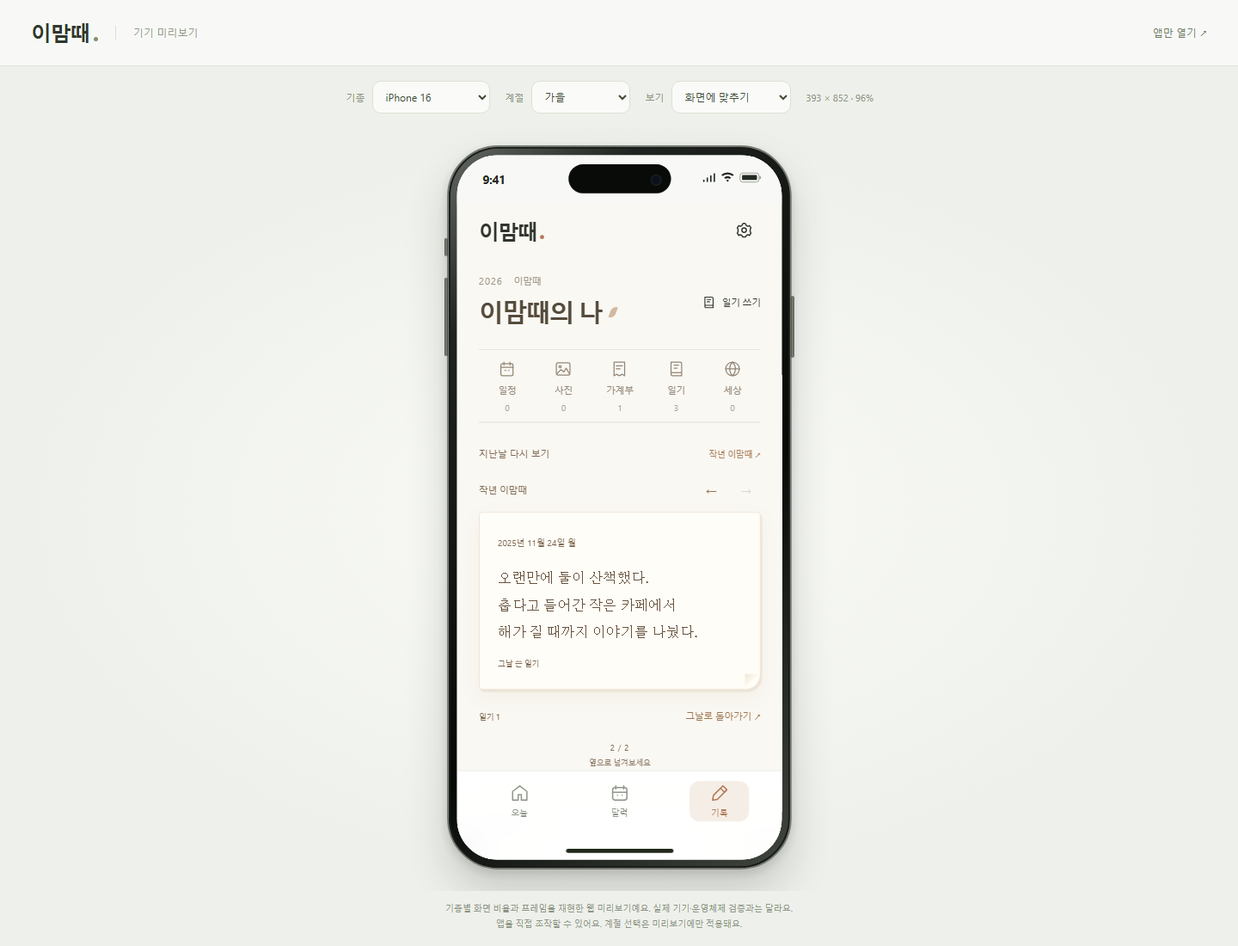
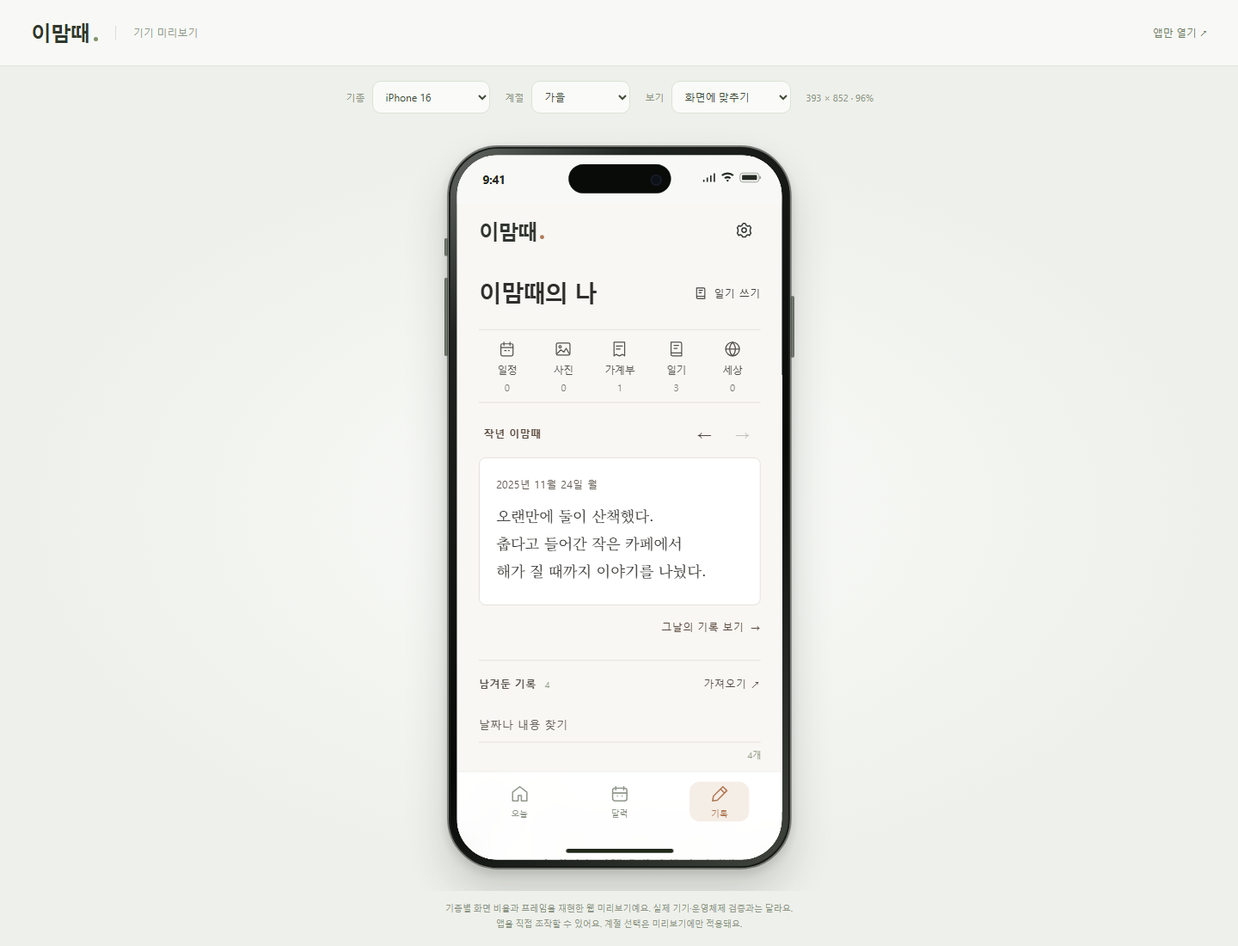
Refine typography and simplify record details

diff --git a/styles.css b/styles.css
@@ -637,10 +637,7 @@ html[data-device-preview] .toast {bottom:calc(100px + var(--device-safe-bottom))
 .entry-menu button:hover {background:var(--tint);}
 .diary-label {display:none;}
 .archive-heading {display:flex;align-items:center;justify-content:space-between;gap:18px;margin:1px 0 25px;}
-.archive-edition {font-size:11px;font-variant-numeric:tabular-nums;letter-spacing:1.3px;color:#8c9384;margin:0 0 9px;}
-.archive-edition span {letter-spacing:0;margin-left:9px;}
 .archive-heading h1 {font-size:34px;letter-spacing:-1.5px;font-weight:650;margin:0;display:flex;align-items:center;gap:10px;}
-.archive-mark {width:7px;height:15px;background:var(--accent);border-radius:7px 0 7px 0;opacity:.65;transform:rotate(20deg);}
 .archive-write {display:flex;align-items:center;gap:7px;font-size:11px;padding:10px 0 10px 10px;min-height:44px;white-space:nowrap;}
 .archive-write svg {width:17px;height:17px;}
 .archive-sections {display:grid;grid-template-columns:repeat(var(--section-count),minmax(0,1fr));border-top:1px solid #e2e6dc;border-bottom:1px solid #e2e6dc;margin-bottom:16px;}
@@ -671,7 +668,7 @@ html[data-device-preview] .toast {bottom:calc(100px + var(--device-safe-bottom))
 .archive-content .record-head {min-height:26px;gap:5px;margin-bottom:7px;}
 .archive-content .record-head time {display:none;}
 .archive-content .diary-label {display:inline;font-size:10px;color:#939c85;}
-.archive-content .diary-entry > p:not(.source-caption) {font-family:Georgia,'Batang',serif;font-size:15px;line-height:2;letter-spacing:-.15px;margin:0;white-space:pre-wrap;}
+.archive-content .diary-entry > p:not(.source-caption) {font-family:var(--record-serif);font-size:15px;line-height:2;letter-spacing:-.15px;margin:0;white-space:pre-wrap;}
 .archive-content .source-caption {font-size:9px;line-height:1.8;color:#9ca48f;margin:9px 0 0;}
 .archive-content .source-badge {background:none;border-radius:0;padding:0;font-size:10px;color:#939c85;}
 .archive-content .memory-card h3 {font-size:14px;line-height:1.8;margin:0 0 7px;font-weight:500;}
@@ -698,7 +695,7 @@ html[data-device-preview] .toast {bottom:calc(100px + var(--device-safe-bottom))
 .archive-content .expense-amount {font-size:14px;font-variant-numeric:tabular-nums;letter-spacing:-.4px;margin:0;align-self:center;overflow-wrap:anywhere;}
 .archive-content .memory-expenses .source-caption,.archive-content .memory-expenses .memory-text {grid-column:1/-1;}
 .archive-content .memory-world {border-left:2px solid var(--tint);padding-left:12px;}
-.archive-content .memory-world h3 {font-family:Georgia,'Batang',serif;font-size:14px;}
+.archive-content .memory-world h3 {font-family:var(--record-serif);font-size:14px;}
 .archive-page .expense-summary {border:0;border-bottom:1px solid #dfe5d5;border-radius:0;padding:15px 0 22px;background:transparent;box-shadow:none;margin:0 0 20px;}
 .archive-page .expense-comparison {border-radius:0;background:transparent;border-top:1px solid #e3e8db;padding:14px 0 0;}
 .archive-page .world-note {display:flex;align-items:center;flex-wrap:wrap;gap:7px 14px;background:transparent;border-top:1px solid #e1e7d8;border-radius:0;margin-top:26px;padding:18px 0;}
@@ -708,69 +705,82 @@ html[data-device-preview] .toast {bottom:calc(100px + var(--device-safe-bottom))
 .archive-storage summary {font-size:10px;cursor:pointer;}
 .archive-storage p {font-size:10px;line-height:1.8;}
 .archive-empty {padding:35px 0 28px;text-align:center;}
-.empty-page {width:66px;height:85px;border:1px solid #dce3d2;background:#fcfdf9;margin:0 auto 23px;padding:25px 12px 0;transform:rotate(-4deg);}
-.empty-page i {display:block;border-top:1px solid #e3e8db;margin-bottom:10px;}
 .archive-empty > p {font-size:13px;color:#89937c;line-height:1.9;}
 .empty-actions {display:flex;justify-content:center;gap:19px;margin-top:14px;}
 .archive-empty .small-button {font-size:11px;margin:auto;}
 .empty-actions .small-button {margin:0;}
 @media(max-width:360px) {.archive-heading h1{font-size:30px}.archive-day{grid-template-columns:36px minmax(0,1fr);gap:12px}.archive-content{padding-left:12px}.archive-day-number{font-size:29px}.archive-sections span{font-size:10px}.archive-content .expense-amount{font-size:12px}}
 
-/* Recollection puts a real past moment before the archive. */
-.records-view {--page:#faf8f3;}
+/* Records use the device UI font and a Korean serif for personal writing. */
+.records-view {
+  --page:#f8f7f4;
+  --record-serif:"AppleMyungjo","Noto Serif KR","Nanum Myeongjo",Batang,Georgia,serif;
+  font-family:system-ui,"Apple SD Gothic Neo","Malgun Gothic",sans-serif;
+}
 .records-view .app-shell {background:var(--page);}
 .records-view .archive-heading {margin-bottom:22px;}
-.records-view .archive-heading h1 {font-size:30px;font-weight:550;color:#554b3d;}
-.records-view .archive-mark {background:#bd9675;}
-.records-view .archive-edition {color:#9d9485;}
-.records-view .archive-sections {border-color:#e7e1d5;}
-.records-view .archive-sections button {min-height:80px;color:#928575;padding:12px 2px 10px;}
-.records-view .archive-sections button[aria-pressed=true] {color:#98724d;background:linear-gradient(0deg,#f3eadf,transparent 70%);}
-.records-view .archive-sections button[aria-pressed=true]:after {background:#bb9675;}
-.memory-intro {display:flex;align-items:center;justify-content:space-between;gap:15px;margin:22px 0 12px;}
-.memory-intro > span {font-size:11px;letter-spacing:.3px;color:#978775;}
-.memory-intro > button {font-size:10px;padding:8px 0;color:#ab815d;min-height:32px;}
-.recollection {padding-bottom:16px;margin-bottom:18px;}
-.recollection-top {display:flex;align-items:center;justify-content:space-between;margin-bottom:10px;}
-.recollection-top > span {font-size:11px;color:#a2805e;}
-.memory-controls {display:flex;gap:5px;}
-.memory-controls button {width:36px;height:32px;font-size:18px;border-radius:50%;color:#947655;}
-.memory-controls button:hover:not(:disabled) {background:#f0e8dc;}
-.memory-controls button:disabled {opacity:.25;cursor:default;}
-.memory-stage {touch-action:pan-y;outline-offset:5px;border-radius:4px;}
-.memory-paper {position:relative;overflow:hidden;background:#fffdf8;border:1px solid #eee5d7;border-radius:4px 4px 18px 4px;box-shadow:0 9px 24px #8b6a4410,2px 3px 0 #f1eadf;}
-.memory-paper:after {content:'';position:absolute;right:0;bottom:0;width:18px;height:18px;background:linear-gradient(135deg,#efe7d7 0%,#fffaf1 48%,transparent 50%);pointer-events:none;}
-.recollection-figure {margin:10px 10px 0;}
-.recollection-photo {display:block;width:100%;height:175px;object-fit:cover;border-radius:2px;}
-.recollection-writing {padding:23px 22px 25px;}
-.recollection-writing time {font-size:10px;letter-spacing:.2px;color:#a3947f;}
-.recollection-writing blockquote {font-family:Georgia,'Batang',serif;font-size:17px;font-weight:400;line-height:1.95;color:#69543e;white-space:pre-wrap;overflow-wrap:anywhere;margin:19px 0 14px;display:-webkit-box;-webkit-line-clamp:4;-webkit-box-orient:vertical;overflow:hidden;}
-.memory-origin {font-size:9px;color:#b1a18c;margin:0;}
-.memory-photo-caption {font-family:Georgia,'Batang',serif;font-size:17px;color:#69543e;}
-.recollection-bottom {display:flex;justify-content:space-between;align-items:center;gap:10px;margin-top:15px;}
-.recollection-bottom > span {font-size:9px;line-height:1.8;color:#aa9a86;}
-.recollection-bottom > button {font-size:11px;color:#9e7751;min-height:36px;padding:6px 0;flex-shrink:0;}
-.memory-position {font-size:9px;letter-spacing:1px;color:#ad9c87;text-align:center;font-variant-numeric:tabular-nums;margin:13px 0 0;}
-.memory-position span {display:block;font-size:9px;letter-spacing:0;color:#c1b39f;margin-top:6px;}
-.turn-older {animation:memory-older .32s ease-out both;}
-.turn-newer {animation:memory-newer .32s ease-out both;}
-@keyframes memory-older {from{opacity:.25;transform:translateX(13px) rotate(.6deg)}to{opacity:1;transform:none}}
-@keyframes memory-newer {from{opacity:.25;transform:translateX(-13px) rotate(-.6deg)}to{opacity:1;transform:none}}
-.recollection-empty {display:flex;align-items:center;gap:13px;padding:15px 0 24px;min-height:145px;}
-.recollection-friend {width:88px;height:115px;flex-shrink:0;background-image:url('assets/seasonal-companion.png');background-size:400% auto;background-position:var(--position) center;mix-blend-mode:multiply;mask-image:linear-gradient(0deg,transparent,#000 15%,#000 88%,transparent);animation:breathe 7s ease-in-out infinite;}
-.recollection-overline {font-size:9px;letter-spacing:.7px;color:#b6a18a;margin:0 0 9px;}
-.recollection-empty h2 {font-family:Georgia,'Batang',serif;font-size:16px;font-weight:400;color:#886b4e;line-height:1.7;margin:0;}
-.recollection-empty div > p:not(.recollection-overline) {font-size:10px;line-height:1.9;color:#ac9a83;margin:10px 0;}
-.recollection-empty .small-button {padding:5px 0;font-size:10px;color:#a47e55;}
-.records-view .archive-tools {border-top:1px solid #e7e0d4;padding-top:17px;}
-.records-view .archive-all {font-size:11px;color:#a19584;}
-.records-view .archive-all[aria-pressed=true] {color:#897358;font-weight:500;}
-.records-view .archive-day {border-color:#e9e2d7;}
-.records-view .archive-content {border-color:#e9e2d7;}
-.records-view .archive-day-number {color:#8e795d;}
-.records-view .archive-content .diary-entry > p:not(.source-caption) {color:#6c604f;}
-.records-view .archive-page .world-note,.records-view .archive-storage {border-color:#e9e2d7;}
-@media(max-width:360px) {.records-view .archive-heading h1{font-size:26px}.recollection-writing{padding:20px 17px}.recollection-writing blockquote{font-size:16px}.recollection-bottom{gap:8px}.recollection-friend{width:70px;height:100px}.recollection-photo{height:150px}}
-@media(prefers-reduced-motion:reduce) {.turn-older,.turn-newer,.recollection-friend{animation:none!important}}
-.memory-intro > span,.recollection-top > span,.recollection-writing time,.memory-origin,.memory-position,.recollection-bottom > span {color:#806b53;}
-.memory-position span,.recollection-empty div > p:not(.recollection-overline),.recollection-overline {color:#8b7761;}
+.records-view .archive-heading h1 {font-size:28px;font-weight:650;letter-spacing:-.045em;color:#2e2d2a;}
+.records-view .archive-write {font-size:13px;color:#44423e;}
+.records-view .archive-sections {border-color:#e4e1da;margin-bottom:14px;}
+.records-view .archive-sections button {min-height:76px;color:#55524c;padding:12px 2px 10px;gap:6px;}
+.records-view .archive-sections span {font-size:12px;}
+.records-view .archive-sections small {font-size:11px;}
+.records-view .archive-sections button[aria-pressed=true] {color:#6f503c;background:#efeae3;}
+.records-view .archive-sections button[aria-pressed=true]:after {background:#947052;}
+.recollection {margin:0 0 18px;}
+.memory-toolbar {display:flex;align-items:center;justify-content:space-between;gap:12px;margin-bottom:8px;}
+.memory-year {min-height:44px;font-size:13px;font-weight:600;color:#59483b;}
+.memory-controls {display:flex;gap:2px;}
+.memory-controls[hidden] {display:none;}
+.memory-controls button {width:44px;height:44px;font-size:20px;border-radius:6px;color:#4e4840;}
+.memory-controls button:hover:not(:disabled),.memory-year:hover {background:#eeeae3;}
+.memory-controls button:disabled {opacity:.3;cursor:default;}
+.memory-stage {touch-action:pan-y;outline-offset:4px;border-radius:8px;}
+.memory-paper {overflow:hidden;background:#fff;border:1px solid #e5e0d8;border-radius:8px;}
+.recollection-figure {margin:0;}
+.recollection-photo {display:block;width:100%;aspect-ratio:16/9;object-fit:cover;}
+.recollection-writing {padding:20px 20px 24px;}
+.recollection-writing time {font-size:13px;color:#635b52;}
+.recollection-writing blockquote {
+  font-family:var(--record-serif);
+  font-size:18px;
+  font-weight:400;
+  line-height:1.85;
+  color:#302e2b;
+  white-space:pre-wrap;
+  overflow-wrap:anywhere;
+  margin:12px 0 0;
+  display:-webkit-box;
+  -webkit-line-clamp:4;
+  -webkit-box-orient:vertical;
+  overflow:hidden;
+}
+.recollection-bottom {display:flex;justify-content:flex-end;margin-top:4px;}
+.recollection-bottom button {font-size:13px;color:#59483b;min-height:44px;padding:6px 0 6px 10px;}
+.recollection-bottom span {margin-inline-start:3px;}
+.recollection-bottom button:hover {text-decoration:underline;}
+.turn-older {animation:memory-older .22s ease-out both;}
+.turn-newer {animation:memory-newer .22s ease-out both;}
+@keyframes memory-older {from{opacity:.55;transform:translateX(8px)}to{opacity:1;transform:none}}
+@keyframes memory-newer {from{opacity:.55;transform:translateX(-8px)}to{opacity:1;transform:none}}
+.recollection-empty {display:flex;align-items:center;gap:12px;padding:4px 0 14px;}
+.recollection-friend {width:80px;height:100px;flex-shrink:0;background-image:url('assets/seasonal-companion.png');background-size:400% auto;background-position:var(--position) center;mix-blend-mode:multiply;}
+.recollection-empty h2 {font-size:15px;font-weight:550;color:#3f3b36;line-height:1.6;margin:0;}
+.recollection-empty .small-button {min-height:44px;padding:5px 0;font-size:13px;color:#59483b;}
+.records-view .archive-tools {border-top:1px solid #e4e1da;padding-top:10px;}
+.records-view .archive-all,.records-view .archive-import {font-size:13px;color:#57524a;}
+.records-view .archive-page #record-search {font-size:14px;border-color:#e4e1da;}
+.records-view .archive-page #record-search::placeholder {color:#68635b;}
+.records-view .archive-day,.records-view .archive-content {border-color:#e4e1da;}
+.records-view .archive-day-number {color:#4d453d;}
+.records-view .archive-content .diary-entry > p:not(.source-caption) {color:#302e2b;font-size:16px;overflow-wrap:anywhere;}
+.records-view .archive-page .world-note,.records-view .archive-storage {border-color:#e4e1da;}
+@media(max-width:360px) {
+  .records-view .archive-heading h1 {font-size:24px;}
+  .recollection-writing {padding:16px;}
+  .recollection-writing blockquote {font-size:17px;}
+  .recollection-friend {width:65px;height:85px;}
+}
+@media(prefers-reduced-motion:reduce) {
+  .turn-older,.turn-newer {animation:none;}
+}

diff --git a/journal.js b/journal.js
@@ -16,7 +16,7 @@ export function memoryCard(item) {
 export function journalShell(state, query, filter) {
   const items=timelineItems(state);
   const keys=Object.keys(CATEGORIES).filter(key=>state.categories.includes(key));
-  return `<div class="archive-page"><header class="archive-heading"><div><p class="archive-edition">${new Date().getFullYear()} <span>이맘때</span></p><h1>이맘때의 나<span class="archive-mark" aria-hidden="true"></span></h1></div><button class="archive-write" data-add-record="${dateKey(new Date())}" aria-label="기록 남기기">${sectionIcon('diary')}<span>일기 쓰기</span></button></header><nav class="archive-sections" aria-label="기록 종류" style="--section-count:${Math.max(1,keys.length)}">${keys.map(key=>`<button data-journal-filter="${key}" aria-pressed="${key===filter}" aria-label="${sectionNames[key]} ${items.filter(item=>item.type===key).length}개">${sectionIcon(key)}<span>${sectionNames[key]}</span><small>${items.filter(item=>item.type===key).length}</small></button>`).join('')}</nav><div class="memory-intro"><span>지난날 다시 보기</span><button data-show-lastyear>작년 이맘때 ↗</button></div><div id="recollection"></div><div class="archive-tools"><button class="archive-all" data-journal-filter="all" aria-pressed="${filter==='all'}">남겨둔 기록 <span>${items.length}</span></button><button class="archive-import" data-connections>가져오기 ↗</button></div><label class="sr-only" for="record-search">기록 내용이나 날짜 검색</label><input type="search" id="record-search" maxlength="1000" placeholder="날짜나 내용 찾기" value="${e(query)}" aria-controls="record-results"><p class="search-count" id="search-count" role="status"></p><div id="record-results"></div>${state.categories.includes('world') ? `<aside class="world-note"><strong>그날의 바깥</strong><button class="small-button" data-add-world>링크 남기기 ↗</button></aside>` : ''}<details class="archive-storage"><summary>저장 위치 · 백업</summary><p>이 브라우저에 저장돼요. 상단 설정에서 백업을 내려받을 수 있어요.</p></details></div>`;
+  return `<div class="archive-page"><header class="archive-heading"><h1>이맘때의 나</h1><button class="archive-write" data-add-record="${dateKey(new Date())}" aria-label="기록 남기기">${sectionIcon('diary')}<span>일기 쓰기</span></button></header><nav class="archive-sections" aria-label="기록 종류" style="--section-count:${Math.max(1,keys.length)}">${keys.map(key=>`<button data-journal-filter="${key}" aria-pressed="${key===filter}" aria-label="${sectionNames[key]} ${items.filter(item=>item.type===key).length}개">${sectionIcon(key)}<span>${sectionNames[key]}</span><small>${items.filter(item=>item.type===key).length}</small></button>`).join('')}</nav><div id="recollection"></div><div class="archive-tools"><button class="archive-all" data-journal-filter="all" aria-pressed="${filter==='all'}">남겨둔 기록 <span>${items.length}</span></button><button class="archive-import" data-connections>가져오기 ↗</button></div><label class="sr-only" for="record-search">기록 내용이나 날짜 검색</label><input type="search" id="record-search" maxlength="1000" placeholder="날짜나 내용 찾기" value="${e(query)}" aria-controls="record-results"><p class="search-count" id="search-count" role="status"></p><div id="record-results"></div>${state.categories.includes('world') ? `<aside class="world-note"><strong>그날의 바깥</strong><button class="small-button" data-add-world>링크 남기기 ↗</button></aside>` : ''}<details class="archive-storage"><summary>저장 위치 · 백업</summary><p>이 브라우저에 저장돼요. 상단 설정에서 백업을 내려받을 수 있어요.</p></details></div>`;
 }
 
 export function journalResults(state, query, filter, recordCard, taskRows) {
@@ -36,7 +36,7 @@ export function journalResults(state, query, filter, recordCard, taskRows) {
     }).join('');
     return `<section class="archive-day"><h2 class="archive-date"><time datetime="${date}"><span class="archive-year">${year}</span><span class="archive-day-number">${day}</span><span class="archive-month">${Number(month)}월 · ${weekday}</span></time></h2><div class="archive-content">${content}</div></section>`;
   }).join('');
-  return { count:items.length, html: html || `<div class="archive-empty"><div class="empty-page" aria-hidden="true"><i></i><i></i><i></i></div><p>${query.trim() ? '일치하는 기록이 없어요.' : state.categories.length ? '아직 비어 있는 페이지.' : '표시할 기록 종류를 골라주세요.'}</p>${query.trim() ? '<button class="small-button" data-clear-search>검색 지우기</button>' : `<div class="empty-actions"><button class="small-button" data-add-record="${dateKey(new Date())}">일기 쓰기</button><button class="small-button" data-connections>기록 가져오기 ↗</button></div>`}</div>` };
+  return { count:items.length, html: html || `<div class="archive-empty"><p>${query.trim() ? '일치하는 기록이 없어요.' : state.categories.length ? '아직 비어 있는 페이지.' : '표시할 기록 종류를 골라주세요.'}</p>${query.trim() ? '<button class="small-button" data-clear-search>검색 지우기</button>' : `<div class="empty-actions"><button class="small-button" data-add-record="${dateKey(new Date())}">일기 쓰기</button><button class="small-button" data-connections>기록 가져오기 ↗</button></div>`}</div>` };
 }
 export function expensePanel(state,month) {
   const summary=expenseSummary(state.memories,month);

diff --git a/recollection.js b/recollection.js
@@ -25,13 +25,46 @@ export function memoryDistance(date,now=new Date()) {
   return difference>0 ? `${difference.toLocaleString('ko-KR')}일 전` : '기록';
 }
 export function memoryStage(days,date,{now=new Date(),direction=0,rangeActive=false}={}) {
-  const index=days.findIndex(day=>day.date===date),day=days[index];
-  if(!day)return `<section class="recollection-empty"><div class="recollection-friend" role="img" aria-label="계절 옷을 입은 이맘때 캐릭터"></div><div><p class="recollection-overline">다시 만나는 이맘때</p><h2>${rangeActive ? '이 무렵의 기록은 아직 없어요.' : '처음 만나는 이맘때'}</h2><p>예전 사진이나 일기를 가져오면<br>이 자리에서 다시 볼 수 있어요.</p><button class="small-button" data-connections>지난 기록 가져오기 ↗</button></div></section>`;
+  const index=days.findIndex(day=>day.date===date);
+  const day=days[index];
+  const lastYearButton='<button class="memory-year" data-show-lastyear>작년 이맘때</button>';
+  if(!day)return `
+    <section class="recollection" aria-label="지난 기록">
+      <div class="memory-toolbar">${lastYearButton}</div>
+      <div class="recollection-empty">
+        <div class="recollection-friend" aria-hidden="true"></div>
+        <div>
+          <h2>${rangeActive ? '이 무렵의 기록은 아직 없어요' : '지난 기록이 아직 없어요'}</h2>
+          <button class="small-button" data-connections>사진이나 일기 가져오기</button>
+        </div>
+      </div>
+    </section>`;
   const photo=day.items.find(item=>item.type==='photos');
   const diary=day.items.find(item=>item.type==='diary');
-  const counts=[['photos','사진'],['diary','일기'],['calendar','일정'],['expenses','지출'],['world','소식']].map(([type,label])=>{const count=day.items.filter(item=>item.type===type).length;return count?`${label} ${count}`:'';}).filter(Boolean).join(' · ');
   const other=day.items.find(item=>!['photos','diary'].includes(item.type));
   const written=diary?.title || other?.title || photo?.text || '';
   const fullDate=new Date(`${day.date}T12:00:00`).toLocaleDateString('ko-KR',{year:'numeric',month:'long',day:'numeric',weekday:'short'});
-  return `<section class="recollection" aria-label="지난 순간 돌아보기"><div class="recollection-top"><span>${memoryDistance(day.date,now)}</span><div class="memory-controls"><button data-memory-step="-1" aria-label="더 최근 기억" aria-controls="memory-stage" ${index<=0?'disabled':''}>←</button><button data-memory-step="1" aria-label="더 오래된 기억" aria-controls="memory-stage" ${index>=days.length-1?'disabled':''}>→</button></div></div><div id="memory-stage" class="memory-stage ${direction ? direction>0?'turn-older':'turn-newer' : ''}" data-memory-stage tabindex="0" role="group" aria-label="${e(fullDate)} 기억. 좌우 방향키나 스와이프로 넘기기"><div class="memory-paper">${photo?`<figure class="recollection-figure"><img class="recollection-photo" src="${e(photo.imageData)}" alt="${e(photo.title)}"></figure>`:''}<div class="recollection-writing"><time datetime="${day.date}">${e(fullDate)}</time>${written ? `<blockquote>${e(written)}</blockquote>` : '<p class="memory-photo-caption">그날 남긴 사진</p>'}<p class="memory-origin">${diary?'그날 쓴 일기':other?'그날 남긴 기록':'내가 선택한 사진'}</p></div></div></div><div class="recollection-bottom"><span>${counts}</span><button data-memory-open="${day.date}">그날로 돌아가기 ↗</button></div><p class="memory-position" aria-live="polite">${index+1} / ${days.length}<span>옆으로 넘겨보세요</span></p></section>`;
+  const motionClass=direction>0 ? 'turn-older' : direction<0 ? 'turn-newer' : '';
+  return `
+    <section class="recollection" aria-label="지난 기록">
+      <div class="memory-toolbar">
+        ${lastYearButton}
+        <div class="memory-controls" ${days.length===1?'hidden':''}>
+          <button data-memory-step="-1" aria-label="더 최근 기억" aria-controls="memory-stage" ${index<=0?'disabled':''}>←</button>
+          <button data-memory-step="1" aria-label="더 오래된 기억" aria-controls="memory-stage" ${index>=days.length-1?'disabled':''}>→</button>
+        </div>
+      </div>
+      <div id="memory-stage" class="memory-stage ${motionClass}" data-memory-stage tabindex="0" role="group" aria-label="${e(fullDate)}. ${memoryDistance(day.date,now)}.${days.length>1?' 좌우 방향키나 스와이프로 넘기기':''}">
+        <div class="memory-paper">
+          ${photo?`<figure class="recollection-figure"><img class="recollection-photo" src="${e(photo.imageData)}" alt="${e(photo.title)}"></figure>`:''}
+          <div class="recollection-writing">
+            <time datetime="${day.date}">${e(fullDate)}</time>
+            ${written ? `<blockquote>${e(written)}</blockquote>` : ''}
+          </div>
+        </div>
+      </div>
+      <div class="recollection-bottom">
+        <button data-memory-open="${day.date}">그날의 기록 보기 <span aria-hidden="true">→</span></button>
+      </div>
+    </section>`;
 }

diff --git a/docs/RECORDS_DESIGN.md b/docs/RECORDS_DESIGN.md
@@ -5,14 +5,15 @@
 ## 회상 경험
 
 - 작년 같은 날짜 전후 7일의 가장 가까운 날을 우선 펼친다. 없으면 가장 최근 과거 기록을 보여준다. 오늘·미래 기록은 아래 기록장에만 남긴다.
-- 사진과 일기가 함께 있으면 사진 아래에 실제 일기 문장을 표시한다. 자동 감상문이나 요약을 만들지 않는다. 긴 글은 일부를 보여주고 ‘그날로 돌아가기’에서 전체를 읽는다.
+- 사진과 일기가 함께 있으면 사진 아래에 실제 일기 문장을 표시한다. 자동 감상문이나 요약을 만들지 않는다. 긴 글은 일부를 보여주고 ‘그날의 기록 보기’에서 전체를 읽는다.
 - 화살표·좌우 방향키·가로 스와이프로 다른 날짜를 넘긴다. 짧은 이동과 페이드만 사용하며 자동 재생은 없다. 모션 줄이기를 지원한다.
 - 표시 종류·종류 필터·기간을 반영한다. 검색할 때는 회상을 숨겨 결과에 집중한다.
 - 빈 상태는 기존 계절 캐릭터와 가져오기 안내를 보여준다. 저장된 날짜·기록·테마는 바꾸지 않는다.
 
 ## 화면 구성
 
-- 제목: 이맘때의 나. 현재 연도와 이맘때를 작게 표시한다.
+- 제목은 ‘이맘때의 나’로 두고 옆에 일기 쓰기 버튼을 둔다. 메뉴와 날짜는 기기 기본 글꼴, 일기 문장은 기기에 설치된 한글 명조 계열 글꼴을 쓴다.
+- 회상 화면의 날짜와 글은 흰 바탕에 짙은 글자로 표시한다. ‘작년 이맘때’와 넘기기 버튼은 한 줄에 둔다.
 - 주요 메뉴: 일정·사진·가계부·일기·세상. 아이콘, 이름, 실제 저장된 기록 수를 함께 보여준다.
 - 회상 아래 도구: 남겨둔 기록, 가져오기, 내용·날짜 검색.
 - 본문: 왼쪽 날짜와 오른쪽 기록. 동일한 날의 항목을 묶는다.

diff --git a/README.md b/README.md
@@ -21,7 +21,7 @@ npm start
 
 **기종 프레임 미리보기:** <http://localhost:3000/preview>. iPhone 16·iPhone 16 Pro·Galaxy S24를 선택하고, 계절과 표시 배율을 바꿀 수 있습니다. 프레임 안에서 실제 앱을 조작합니다. 실제 기기나 운영체제를 실행하는 에뮬레이터는 아닙니다. [미리보기 사용법](docs/DEVICE_PREVIEW.md)
 
-**기억 돌아보기:** <http://localhost:3000/preview#records>. 작년 이맘때의 사진과 그날 쓴 문장을 먼저 만나고, 화살표·방향키·스와이프로 다른 날을 펼쳐봅니다. ‘그날로 돌아가기’로 날짜별 전체 기록을 읽을 수 있습니다. [회상 화면과 디자인](docs/RECORDS_DESIGN.md)
+**기억 돌아보기:** <http://localhost:3000/preview#records>. 작년 이맘때의 사진과 그날 쓴 문장을 먼저 만나고, 화살표·방향키·스와이프로 다른 날을 펼쳐봅니다. ‘그날의 기록 보기’로 날짜별 전체 기록을 읽을 수 있습니다. [회상 화면과 디자인](docs/RECORDS_DESIGN.md)
 
 ## 구현한 기능
 

diff --git a/docs/DEVELOPMENT.md b/docs/DEVELOPMENT.md
@@ -2,6 +2,7 @@
 
 ## 0.8.0 · 지난 순간 다시 만나기
 
+- 기록 탭의 메뉴와 날짜는 기기 기본 글꼴을 사용하고, 일기 본문에 한글 명조 계열을 적용했다. 회상 카드의 그림자와 중복 문구를 정리하고 버튼과 날짜의 가독성을 높였다.
 - 기록 탭 제목을 ‘이맘때의 나’로 바꾸고 다섯 주요 메뉴 아래에 회상 화면을 추가했다. 따뜻한 회백색 바탕과 밝은 종이 질감의 여백으로 실제 사진·일기를 먼저 읽는다.
 - 작년 같은 날짜 전후 7일 안의 가장 가까운 기록을 우선 펼친다. 없으면 가장 최근 과거 기록을 보여준다. 오늘·미래 기록은 회상에서 제외하고 아래 전체 기록에는 유지한다.
 - 화살표·좌우 방향키·가로 스와이프로 날짜를 넘긴다. 사용자가 넘길 때만 짧게 움직이며 모션 줄이기 설정을 따른다. 자동 재생은 없다.
